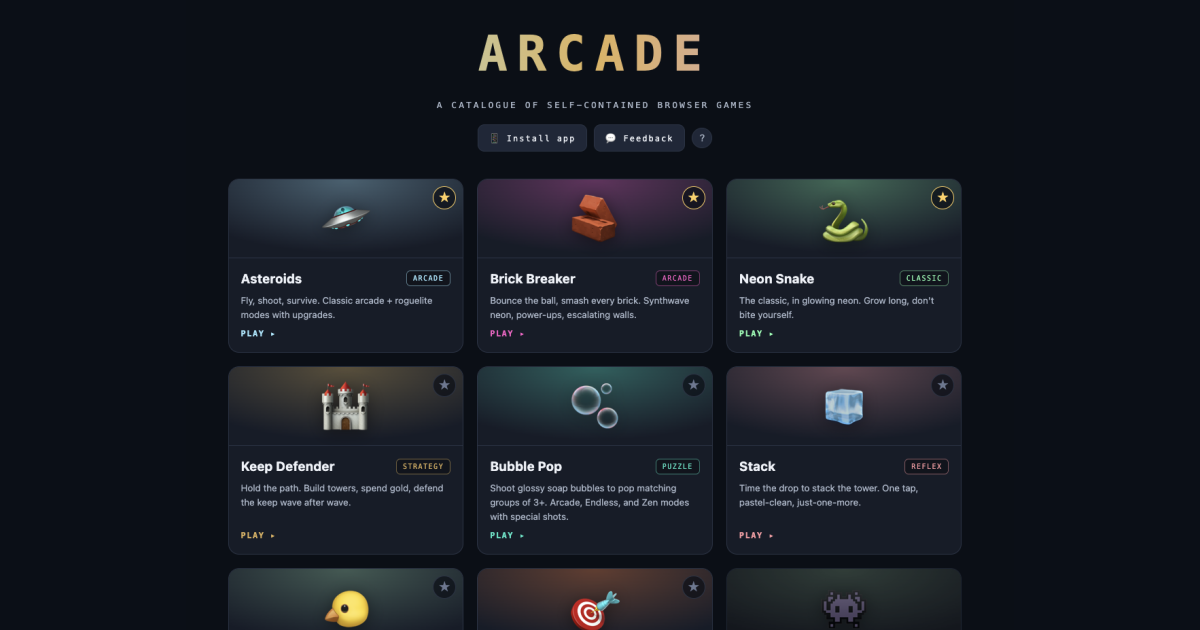
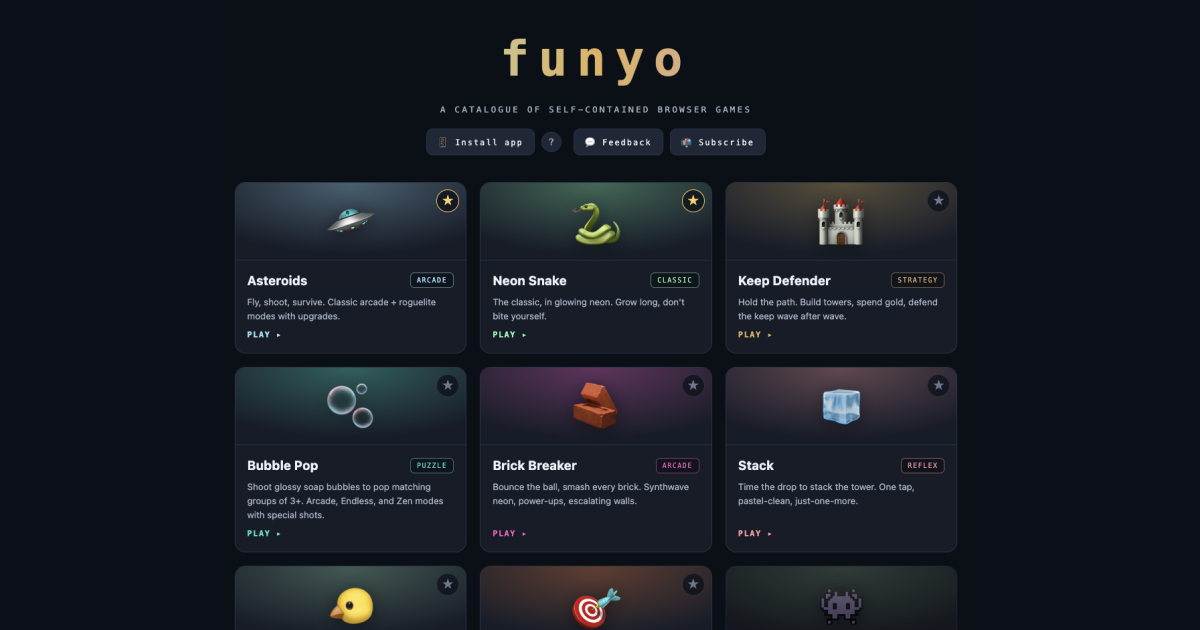
og: regenerate preview image for the funyo rebrand + cache-bust (?v=2)
Old og-image still showed the ARCADE wordmark; rebuilt from a funyo page
screenshot and bumped og:image/twitter:image to ?v=2 so scrapers refetch.

diff --git a/index.html b/index.html
@@ -19,14 +19,14 @@
 <meta property="og:title" content="funyo — free browser games">
 <meta property="og:description" content="A little catalogue of free, self-contained browser games. No ads, no payments, plays offline.">
 <meta property="og:url" content="https://funyo.online/">
-<meta property="og:image" content="https://funyo.online/og-image.png">
+<meta property="og:image" content="https://funyo.online/og-image.png?v=2">
 <meta property="og:image:width" content="1200">
 <meta property="og:image:height" content="630">
 <meta property="og:image:alt" content="funyo — self-contained browser games">
 <meta name="twitter:card" content="summary_large_image">
 <meta name="twitter:title" content="funyo — free browser games">
 <meta name="twitter:description" content="A little catalogue of free, self-contained browser games. No ads, plays offline.">
-<meta name="twitter:image" content="https://funyo.online/og-image.png">
+<meta name="twitter:image" content="https://funyo.online/og-image.png?v=2">
 <!-- Analytics: GA4, loaded only after cookie consent (see analytics.js) -->
 <script src="analytics.js" defer></script>
 <style>